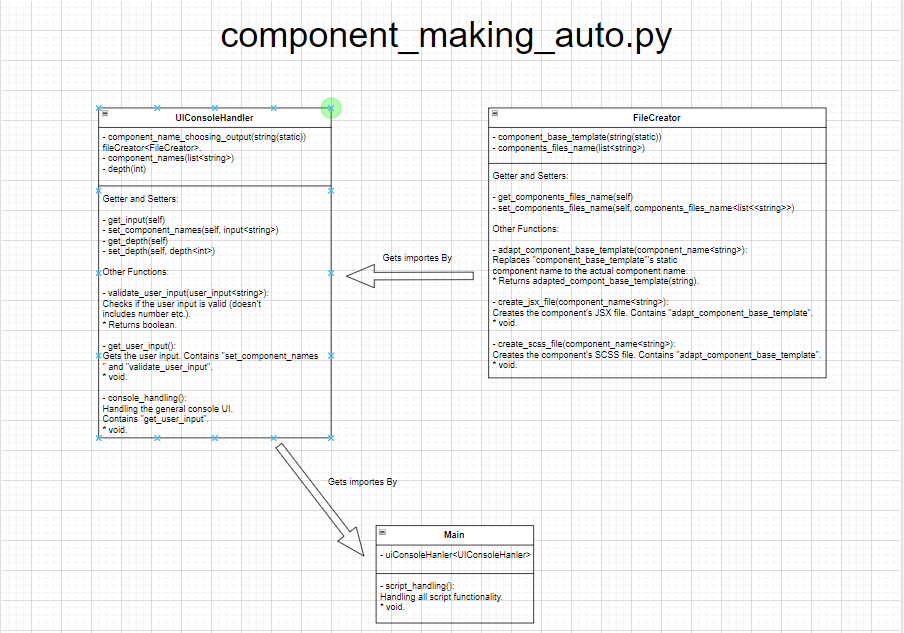
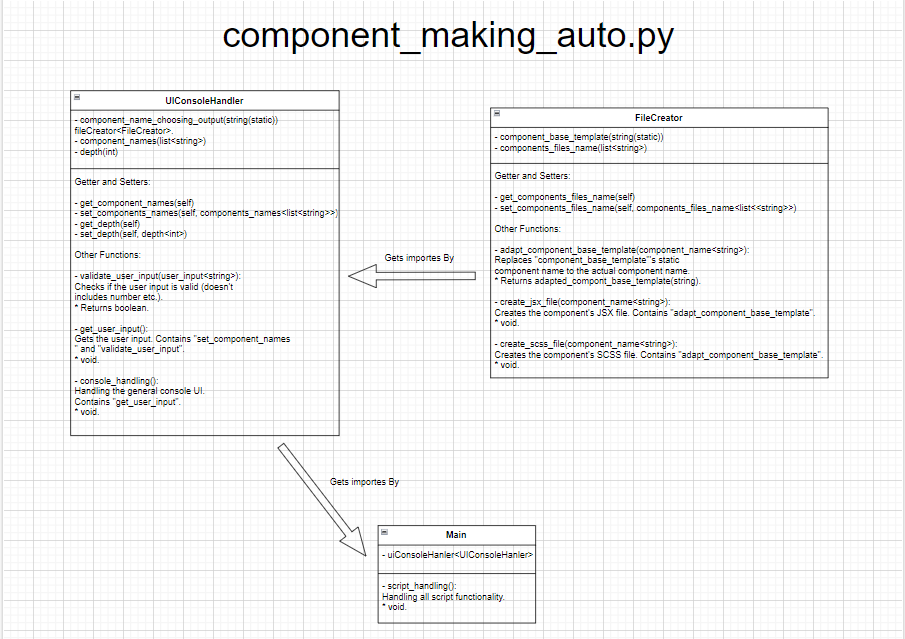
feat: added geters and setters to UIConsoleHandler, planning photo changed

Changed region(s): [[0.0, 0.0, 1.0, 1.0], [0.2478, 0.03, 0.7434, 0.09]]

diff --git a/UIConsoleHandler.py b/UIConsoleHandler.py
@@ -11,3 +11,15 @@ class UIConsoleHandler:
         self.depth = 0 
         # will get set after the user is done giving components names (input)
         self.fileCreator = FileCreator(components_names)
+
+    def get_components_names(self):
+        return self.components_names
+    
+    def set_components_names(self, new_names):
+        self.components_names = new_names
+    
+    def get_depth(self):
+        return self.depth
+    
+    def set_depth(self, new_depth):
+        self.depth = new_depth
